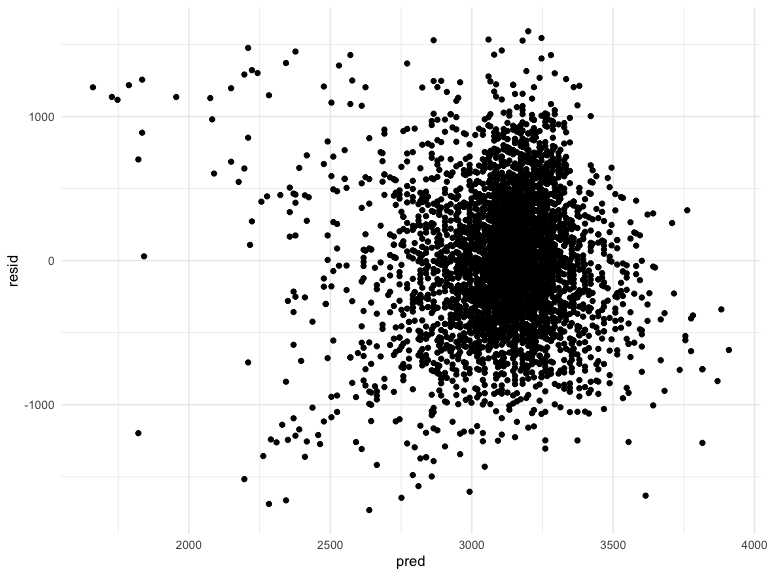
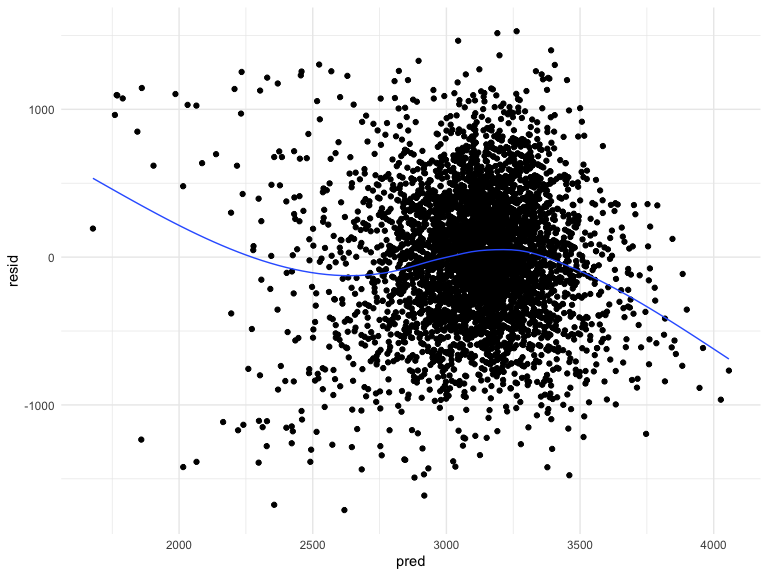
add train and test, cross validation, and plot

diff --git a/p8105_hw6_sz2872.md b/p8105_hw6_sz2872.md
@@ -128,20 +128,64 @@ baby_df =
 
     ## See spec(...) for full column specifications.
 
+## model 1
+
 ``` r
-model_fit_1 = lm(bwt ~ gaweeks, data = baby_df)
+model_fit_1 = lm(bwt ~ gaweeks + babysex + wtgain + smoken, data = baby_df)
 
 baby_df %>% 
   add_predictions(model_fit_1) %>% 
   add_residuals(model_fit_1) %>% 
   ggplot(aes(x = pred, y = resid)) + 
-  geom_point()
+  geom_point() +
+  geom_smooth(se = F,size = 0.5)
 ```
 
+    ## `geom_smooth()` using method = 'gam' and formula 'y ~ s(x, bs = "cs")'
+
 <img src="p8105_hw6_sz2872_files/figure-gfm/unnamed-chunk-6-1.png" width="90%" />
+
+## model 2 & 3
 
 ``` r
 model_fit_2 = lm(bwt ~ blength + gaweeks, data = baby_df)
 
 model_fit_3 = lm(bwt ~ blength * bhead * babysex, data = baby_df)
 ```
+
+``` r
+cv_df = 
+  crossv_mc(baby_df, 100) %>% 
+  mutate(
+    train = map(train,as_tibble),
+    test = map(test,as_tibble)
+  )
+```
+
+``` r
+rmse_df = 
+  cv_df %>% 
+  mutate(
+    mod_1   = map(train, ~lm(bwt ~ gaweeks + babysex + wtgain + smoken, data = .x)),
+    mod_2   = map(train, ~lm(bwt ~ blength + gaweeks, data = .x)),
+    mod_3   = map(train, ~lm(bwt ~ blength * bhead * babysex, data = .x)) 
+  )%>% 
+  mutate(
+    rmse_1  = map2_dbl(mod_1, test, ~rmse(model = .x, data = .y)),
+    rmse_2  = map2_dbl(mod_2, test, ~rmse(model = .x, data = .y)),
+    rmse_3  = map2_dbl(mod_3, test, ~rmse(model = .x, data = .y))
+  )
+
+rmse_df %>% 
+  select(starts_with("rmse")) %>% 
+  pivot_longer(
+    everything(),
+    names_to = "model", 
+    values_to = "rmse",
+    names_prefix = "rmse_") %>% 
+  mutate(model = fct_inorder(model)) %>% 
+  ggplot(aes(x = model, y = rmse, fill = model)) + 
+  geom_violin()
+```
+
+<img src="p8105_hw6_sz2872_files/figure-gfm/unnamed-chunk-9-1.png" width="90%" />
